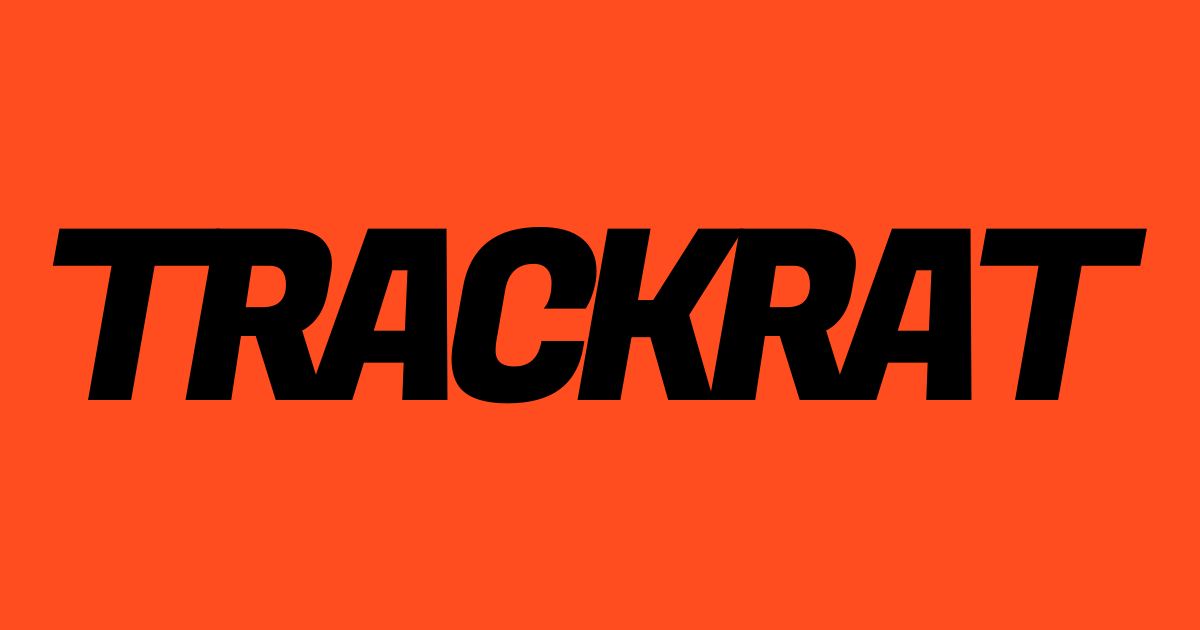
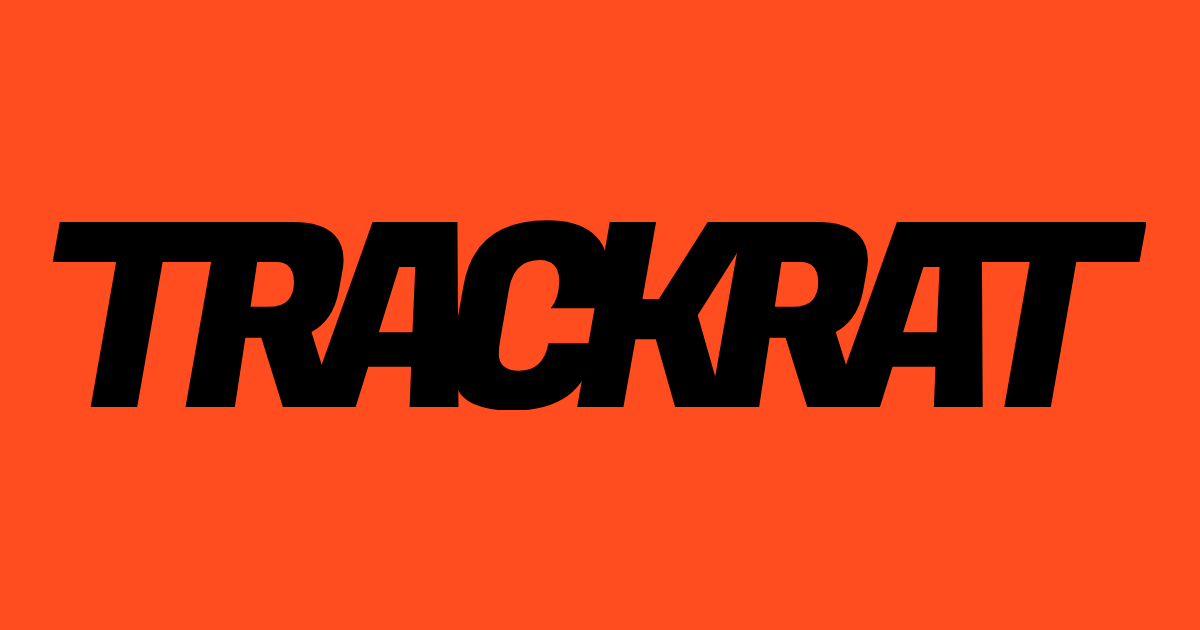
Add files via upload

diff --git a/brand.html b/brand.html
@@ -69,7 +69,7 @@
     }
 
     .wordmark {
-      font-family: 'Fugaz One', cursive;
+      font-family: 'Fugaz One', 'Arial Black', sans-serif;
       letter-spacing: -0.14em;
     }
 
@@ -171,7 +171,7 @@
     }
 
     nav .nav-left {
-      font-family: 'Fugaz One', cursive;
+      font-family: 'Fugaz One', 'Arial Black', sans-serif;
       font-size: 18px;
       letter-spacing: -0.14em;
       position: absolute;
@@ -281,7 +281,7 @@
       width: 100%; flex-shrink: 0;
     }
     .mobile-menu-wordmark {
-      font-family: 'Fugaz One', cursive; letter-spacing: -0.14em;
+      font-family: 'Fugaz One', 'Arial Black', sans-serif; letter-spacing: -0.14em;
       font-size: 18px; color: var(--white);
     }
     .mobile-menu-close {
@@ -299,7 +299,7 @@
     .mobile-menu-links > a,
     .mobile-accordion-trigger {
       font-size: clamp(30px, 7.5vw, 44px);
-      font-family: 'Fugaz One', cursive;
+      font-family: 'Fugaz One', 'Arial Black', sans-serif;
       letter-spacing: -0.04em;
       color: var(--white);
       padding: 12px 0; width: 100%;
@@ -333,7 +333,7 @@
     }
     .mobile-accordion-panel.is-open { display: flex; }
     .mobile-accordion-panel a {
-      font-family: 'Fugaz One', cursive; letter-spacing: -0.03em;
+      font-family: 'Fugaz One', 'Arial Black', sans-serif; letter-spacing: -0.03em;
       font-size: clamp(19px, 5vw, 26px); color: var(--white);
       padding: 9px 0;
     }
@@ -388,7 +388,7 @@
 
     .hero-brand {
       font-size: clamp(60px, 14vw, 200px);
-      font-family: 'Fugaz One', cursive;
+      font-family: 'Fugaz One', 'Arial Black', sans-serif;
       font-weight: normal;
       letter-spacing: -0.14em;
       color: var(--orange);
@@ -600,7 +600,7 @@
     }
 
     .wordmark-large {
-      font-family: 'Fugaz One', cursive;
+      font-family: 'Fugaz One', 'Arial Black', sans-serif;
       letter-spacing: -0.14em;
       font-size: clamp(44px, 9vw, 110px);
       line-height: 1;
@@ -952,7 +952,7 @@
         </div>
         <div class="detail-card">
           <span class="detail-label">LOGO</span>
-          <span class="detail-value" style="font-family: 'Fugaz One', cursive; letter-spacing: -0.14em; font-size: 24px;">TRACKRAT</span>
+          <span class="detail-value" style="font-family: 'Fugaz One', 'Arial Black', sans-serif; letter-spacing: -0.14em; font-size: 24px;">TRACKRAT</span>
           <span class="detail-note">WORDMARK IN FUGAZ ONE, &minus;14% LETTER SPACING. NO ICON. THE NAME DOES THE WORK.</span>
         </div>
         <div class="detail-card">

diff --git a/index.html b/index.html
@@ -115,7 +115,7 @@
       letter-spacing: 0.05em;
     }
     nav .nav-left {
-      font-family: 'Fugaz One', cursive;
+      font-family: 'Fugaz One', 'Arial Black', sans-serif;
       font-size: 18px;
       letter-spacing: -0.14em;
       position: absolute;
@@ -231,7 +231,7 @@
       width: 100%; flex-shrink: 0;
     }
     .mobile-menu-wordmark {
-      font-family: 'Fugaz One', cursive; letter-spacing: -0.14em;
+      font-family: 'Fugaz One', 'Arial Black', sans-serif; letter-spacing: -0.14em;
       font-size: 18px; color: var(--white);
     }
     .mobile-menu-close {
@@ -251,7 +251,7 @@
     .mobile-menu-links > a,
     .mobile-accordion-trigger {
       font-size: clamp(30px, 7.5vw, 44px);
-      font-family: 'Fugaz One', cursive;
+      font-family: 'Fugaz One', 'Arial Black', sans-serif;
       letter-spacing: -0.04em;
       color: var(--white);
       padding: 12px 0; width: 100%;
@@ -297,7 +297,7 @@
 
     .hero h1.wordmark {
       font-size: clamp(80px, 18vw, 240px);
-      font-family: 'Fugaz One', cursive;
+      font-family: 'Fugaz One', 'Arial Black', sans-serif;
       letter-spacing: -0.14em;
       line-height: 0.85;
       margin-bottom: 24px;
@@ -336,11 +336,11 @@
       padding: 80px 40px 120px;
     }
     .content h2 {
-      font-family: 'Fugaz One', cursive;
-      font-weight: normal;
-      letter-spacing: -0.06em;
-      font-size: clamp(40px, 6vw, 72px);
-      line-height: 0.95;
+      font-family: 'IBM Plex Mono', monospace;
+      font-weight: 700;
+      letter-spacing: -0.02em;
+      font-size: clamp(28px, 4vw, 46px);
+      line-height: 1.02;
       margin-bottom: 28px;
     }
     .content h3 {
@@ -440,7 +440,7 @@
     }
     .mobile-accordion-panel.is-open { display: flex; }
     .mobile-accordion-panel a {
-      font-family: 'Fugaz One', cursive; letter-spacing: -0.03em;
+      font-family: 'Fugaz One', 'Arial Black', sans-serif; letter-spacing: -0.03em;
       font-size: clamp(19px, 5vw, 26px); color: var(--white);
       padding: 9px 0;
     }

diff --git a/invitational.html b/invitational.html
@@ -78,7 +78,7 @@
       letter-spacing: 0.05em;
     }
     nav .nav-left {
-      font-family: 'Fugaz One', cursive;
+      font-family: 'Fugaz One', 'Arial Black', sans-serif;
       font-size: 18px;
       letter-spacing: -0.14em;
       position: absolute;
@@ -189,7 +189,7 @@
       width: 100%; flex-shrink: 0;
     }
     .mobile-menu-wordmark {
-      font-family: 'Fugaz One', cursive; letter-spacing: -0.14em;
+      font-family: 'Fugaz One', 'Arial Black', sans-serif; letter-spacing: -0.14em;
       font-size: 18px; color: var(--white);
     }
     .mobile-menu-close {
@@ -207,7 +207,7 @@
     .mobile-menu-links > a,
     .mobile-accordion-trigger {
       font-size: clamp(30px, 7.5vw, 44px);
-      font-family: 'Fugaz One', cursive;
+      font-family: 'Fugaz One', 'Arial Black', sans-serif;
       letter-spacing: -0.04em;
       color: var(--white);
       padding: 12px 0; width: 100%;
@@ -240,7 +240,7 @@
     }
     .mobile-accordion-panel.is-open { display: flex; }
     .mobile-accordion-panel a {
-      font-family: 'Fugaz One', cursive; letter-spacing: -0.03em;
+      font-family: 'Fugaz One', 'Arial Black', sans-serif; letter-spacing: -0.03em;
       font-size: clamp(19px, 5vw, 26px); color: var(--white);
       padding: 9px 0;
     }
@@ -260,14 +260,14 @@
     }
     .subtitle {
       font-size: clamp(24px, 4vw, 48px);
-      font-family: 'Fugaz One', cursive;
+      font-family: 'Fugaz One', 'Arial Black', sans-serif;
       font-weight: normal;
       line-height: 1;
       margin-bottom: 8px;
     }
     .year {
       font-size: clamp(80px, 18vw, 240px);
-      font-family: 'Fugaz One', cursive;
+      font-family: 'Fugaz One', 'Arial Black', sans-serif;
       letter-spacing: -0.14em;
       line-height: 0.85;
       margin-bottom: 24px;

diff --git a/schedule.html b/schedule.html
@@ -68,7 +68,7 @@
     }
 
     .wordmark {
-      font-family: 'Fugaz One', cursive;
+      font-family: 'Fugaz One', 'Arial Black', sans-serif;
       letter-spacing: -0.14em;
     }
 
@@ -142,7 +142,7 @@
     }
 
     nav .nav-left {
-      font-family: 'Fugaz One', cursive;
+      font-family: 'Fugaz One', 'Arial Black', sans-serif;
       font-size: 18px;
       letter-spacing: -0.14em;
       position: absolute;
@@ -222,7 +222,7 @@
     }
 
     .page-title {
-      font-family: 'Fugaz One', cursive;
+      font-family: 'Fugaz One', 'Arial Black', sans-serif;
       letter-spacing: -0.10em;
       font-size: clamp(60px, 12vw, 160px);
       line-height: 0.85;
@@ -453,7 +453,7 @@
       width: 100%; flex-shrink: 0;
     }
     .mobile-menu-wordmark {
-      font-family: 'Fugaz One', cursive; letter-spacing: -0.14em;
+      font-family: 'Fugaz One', 'Arial Black', sans-serif; letter-spacing: -0.14em;
       font-size: 18px; color: var(--white);
     }
     .mobile-menu-close {
@@ -471,7 +471,7 @@
     .mobile-menu-links > a,
     .mobile-accordion-trigger {
       font-size: clamp(30px, 7.5vw, 44px);
-      font-family: 'Fugaz One', cursive;
+      font-family: 'Fugaz One', 'Arial Black', sans-serif;
       letter-spacing: -0.04em;
       color: var(--white);
       padding: 12px 0; width: 100%;
@@ -505,7 +505,7 @@
     }
     .mobile-accordion-panel.is-open { display: flex; }
     .mobile-accordion-panel a {
-      font-family: 'Fugaz One', cursive; letter-spacing: -0.03em;
+      font-family: 'Fugaz One', 'Arial Black', sans-serif; letter-spacing: -0.03em;
       font-size: clamp(19px, 5vw, 26px); color: var(--white);
       padding: 9px 0;
     }

diff --git a/CLAUDE.md b/CLAUDE.md
@@ -146,8 +146,8 @@ local/event surfaces. The **Thursday** session stays city-level because
 its location genuinely varies (accuracy beats completeness — don't give
 it a fake fixed address).
 
-The OG image is rendered in actual Fugaz One (black wordmark on brand
-orange `#FF4D1F`, 1200×630, palette-optimized PNG).
+The OG image is rendered in actual Fugaz One (black wordmark on Sprint
+Orange `#FF4D1F`, 1200×630, palette-optimized PNG).
 
 ## Shared Patterns Across Pages
 
